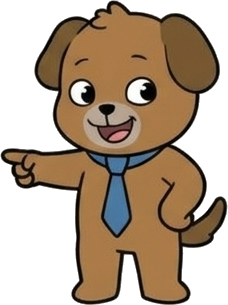
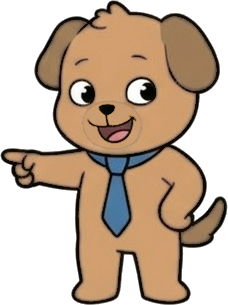
기존 강아지 자세 20종 몸·주둥이 색을 기본 강아지와 맞춤(toon-recolor), 만화 2개 다시 그림

diff --git a/_tools/toon-recolor.html b/_tools/toon-recolor.html
@@ -1,0 +1,54 @@
+<!doctype html>
+<!--
+  이미 잘라 둔 강아지 그림(assets/toon/dog-*.png) 중 몸이 진한 갈색·주둥이가 회베이지인 것만 골라
+  기본 강아지 색(얼굴·주둥이 199,152,108, 몸 +42,42,50)으로 맞춘다(2026-11-07 사용자 요청, toon-cut.html과 같은 규칙).
+  크롬 headless --dump-dom 으로 열면 <pre id="out">에 "이름 판정 base64PNG" 줄이 나온다(판정 skip이면 그대로 둠).
+-->
+<meta charset="utf-8">
+<pre id="out"></pre>
+<script>
+const NAMES = ["dog-angry","dog-bored","dog-cashier","dog-checklist","dog-cheer","dog-cry","dog-dizzy","dog-faint","dog-giggle","dog-grin","dog-happy","dog-laptop","dog-lecture","dog-mic","dog-neutral","dog-panic","dog-phone","dog-point-left","dog-point-left2","dog-point-right","dog-reach","dog-rich","dog-rub","dog-scared","dog-scheme","dog-slam","dog-sly","dog-smug","dog-sob","dog-stamp","dog-sulk","dog-surprise","dog-talk","dog-think","dog-tired","dog-tongue","dog-wave","dog-wonder","dog-yawn","dog-yay"];
+const out = document.getElementById("out");
+const load = n => new Promise(r => { const i = new Image(); i.onload = () => r(i); i.src = "../assets/toon/" + n + ".png"; });
+(async () => {
+  for (const name of NAMES) {
+    const img = await load(name), w = img.naturalWidth, h = img.naturalHeight, c = document.createElement("canvas"); c.width = w; c.height = h;
+    const g = c.getContext("2d"); g.drawImage(img, 0, 0); const d = g.getImageData(0, 0, w, h), p = d.data, N = w * h;
+    const bg = k => p[k*4+3] < 20;
+    // 참고값: 주황갈색 픽셀 평균 R(진한 강아지 150~170, 기본 강아지 180~190)
+    let sr = 0, sn = 0;
+    for (let k = 0; k < N; k++) { if (bg(k)) continue; const r = p[k*4], g2 = p[k*4+1], b = p[k*4+2], mx = Math.max(r, g2, b), mn = Math.min(r, g2, b);
+      if (mx < 60 || mx !== r || mx === mn) continue; const hue = 60 * (g2 - b) / (mx - mn); if (hue < 20 || hue > 45 || (mx - mn) / mx < 0.35) continue; sr += r; sn++; }
+    const avgR = sn ? sr / sn : 255;
+    const REF = [174, 158, 140], TO = [199, 152, 108];
+    const near = k => !bg(k) && Math.hypot(p[k*4]-REF[0], p[k*4+1]-REF[1], p[k*4+2]-REF[2]) < 34;
+    const lim = w * Math.floor(h * 0.55), seen = new Uint8Array(N); let best = [];
+    for (let s0 = 0; s0 < lim; s0++) { if (seen[s0] || !near(s0)) continue; const q = [s0], mem = []; seen[s0] = 1;
+      while (q.length) { const k = q.pop(); mem.push(k); const i = k % w;
+        for (const n of [i > 0 ? k - 1 : -1, i < w - 1 ? k + 1 : -1, k - w, k + w]) if (n >= 0 && n < lim && !seen[n] && near(n)) { seen[n] = 1; q.push(n); } }
+      if (mem.length > best.length) best = mem; }
+    const lum = k => 0.3 * p[k*4] + 0.59 * p[k*4+1] + 0.11 * p[k*4+2], L0 = 0.3 * REF[0] + 0.59 * REF[1] + 0.11 * REF[2];
+    // 판정: 몸 갈색 평균 R이 170 미만이면 진한 강아지(이모션4~7). 기본 강아지(이모션1~3)는 175~190이라 건드리지 않는다.
+    if (avgR >= 170) { out.textContent += name + " skip_R" + Math.round(avgR) + "_m" + best.length + " -\n"; continue; }
+    if (best.length < 100) best = []; // 표정 때문에 주둥이가 거의 안 보이면 몸 색만 바꾼다
+    for (const k of best) { const dl = 0.5 * (lum(k) - L0); for (let ch = 0; ch < 3; ch++) p[k*4+ch] = Math.max(0, Math.min(255, Math.round(TO[ch] + dl))); }
+    const ring = new Set(best);
+    for (let it = 0; it < 3; it++) { const add = [];
+      for (const k of ring) for (const n of [k - 1, k + 1, k - w, k + w]) { if (n < 0 || n >= N || ring.has(n) || bg(n)) continue;
+        const mx = Math.max(p[n*4], p[n*4+1], p[n*4+2]), mn = Math.min(p[n*4], p[n*4+1], p[n*4+2]); if (mx > 70 && (mx - mn) / mx < 0.45 && p[n*4] >= p[n*4+2]) add.push(n); }
+      for (const n of add) { if (ring.has(n)) continue; ring.add(n); const dl = 0.5 * (lum(n) - L0); for (let ch = 0; ch < 3; ch++) p[n*4+ch] = Math.max(0, Math.min(255, Math.round(TO[ch] + dl))); } }
+    // 그림마다 몸 색이 조금씩 달라서, 이 그림의 몸 평균색(채도 0.5 이상·밝기 90 이상 주황갈색)을 재서 기본 몸색(199,152,108)과의 차이만큼 옮긴다
+    let mr = 0, mg = 0, mb = 0, mc = 0;
+    for (let k = 0; k < N; k++) { if (bg(k) || ring.has(k)) continue; const r = p[k*4], g2 = p[k*4+1], b = p[k*4+2], mx = Math.max(r, g2, b), mn = Math.min(r, g2, b);
+      if (mx < 90 || mx !== r || mx === mn || (mx - mn) / mx < 0.5) continue; const hue = 60 * (g2 - b) / (mx - mn); if (hue < 20 || hue > 45) continue; mr += r; mg += g2; mb += b; mc++; }
+    const OFF = mc ? [TO[0] - mr / mc, TO[1] - mg / mc, TO[2] - mb / mc] : [42, 42, 50];
+    for (let k = 0; k < N; k++) { if (bg(k) || ring.has(k)) continue; const r = p[k*4], g2 = p[k*4+1], b = p[k*4+2], mx = Math.max(r, g2, b), mn = Math.min(r, g2, b);
+      if (mx < 40 || mx !== r || mx === mn) continue; const hue = 60 * (g2 - b) / (mx - mn); if (hue < 20 || hue > 45) continue;
+      const t = Math.max(0, Math.min(1, ((mx - mn) / mx - 0.3) / 0.2)); if (!t) continue;
+      for (let ch = 0; ch < 3; ch++) p[k*4+ch] = Math.min(255, Math.round(p[k*4+ch] + t * OFF[ch])); }
+    g.putImageData(d, 0, 0);
+    out.textContent += name + " fix_R" + Math.round(avgR) + "_m" + best.length + " " + c.toDataURL("image/png").split(",")[1] + "\n";
+  }
+  out.dataset.done = "1";
+})();
+</script>

diff --git a/_tools/toon.html b/_tools/toon.html
@@ -258,7 +258,7 @@ const decks = {
     date: "2026.11",
     cells: [
       { bg: "#fdf1d6",
-        scene: desk("#e7b98e") + pic("cat-cashier", 230, 650, 430, { rot: -2 }) + q(400, 150),
+        scene: desk("#e7b98e") + pic("cat-cashier", 230, 650, 430, { rot: -2 }),
         talk: [["", "손님이 현금 내고<br>현금영수증 달래요"]] },
       { bg: "#e3eefb",
         scene: desk("#9cc1e8") + pic("cat-present", 125, 640, 370, { rot: -3 }) + pic("dog-talk", 348, 630, 375, { rot: 3 }),
